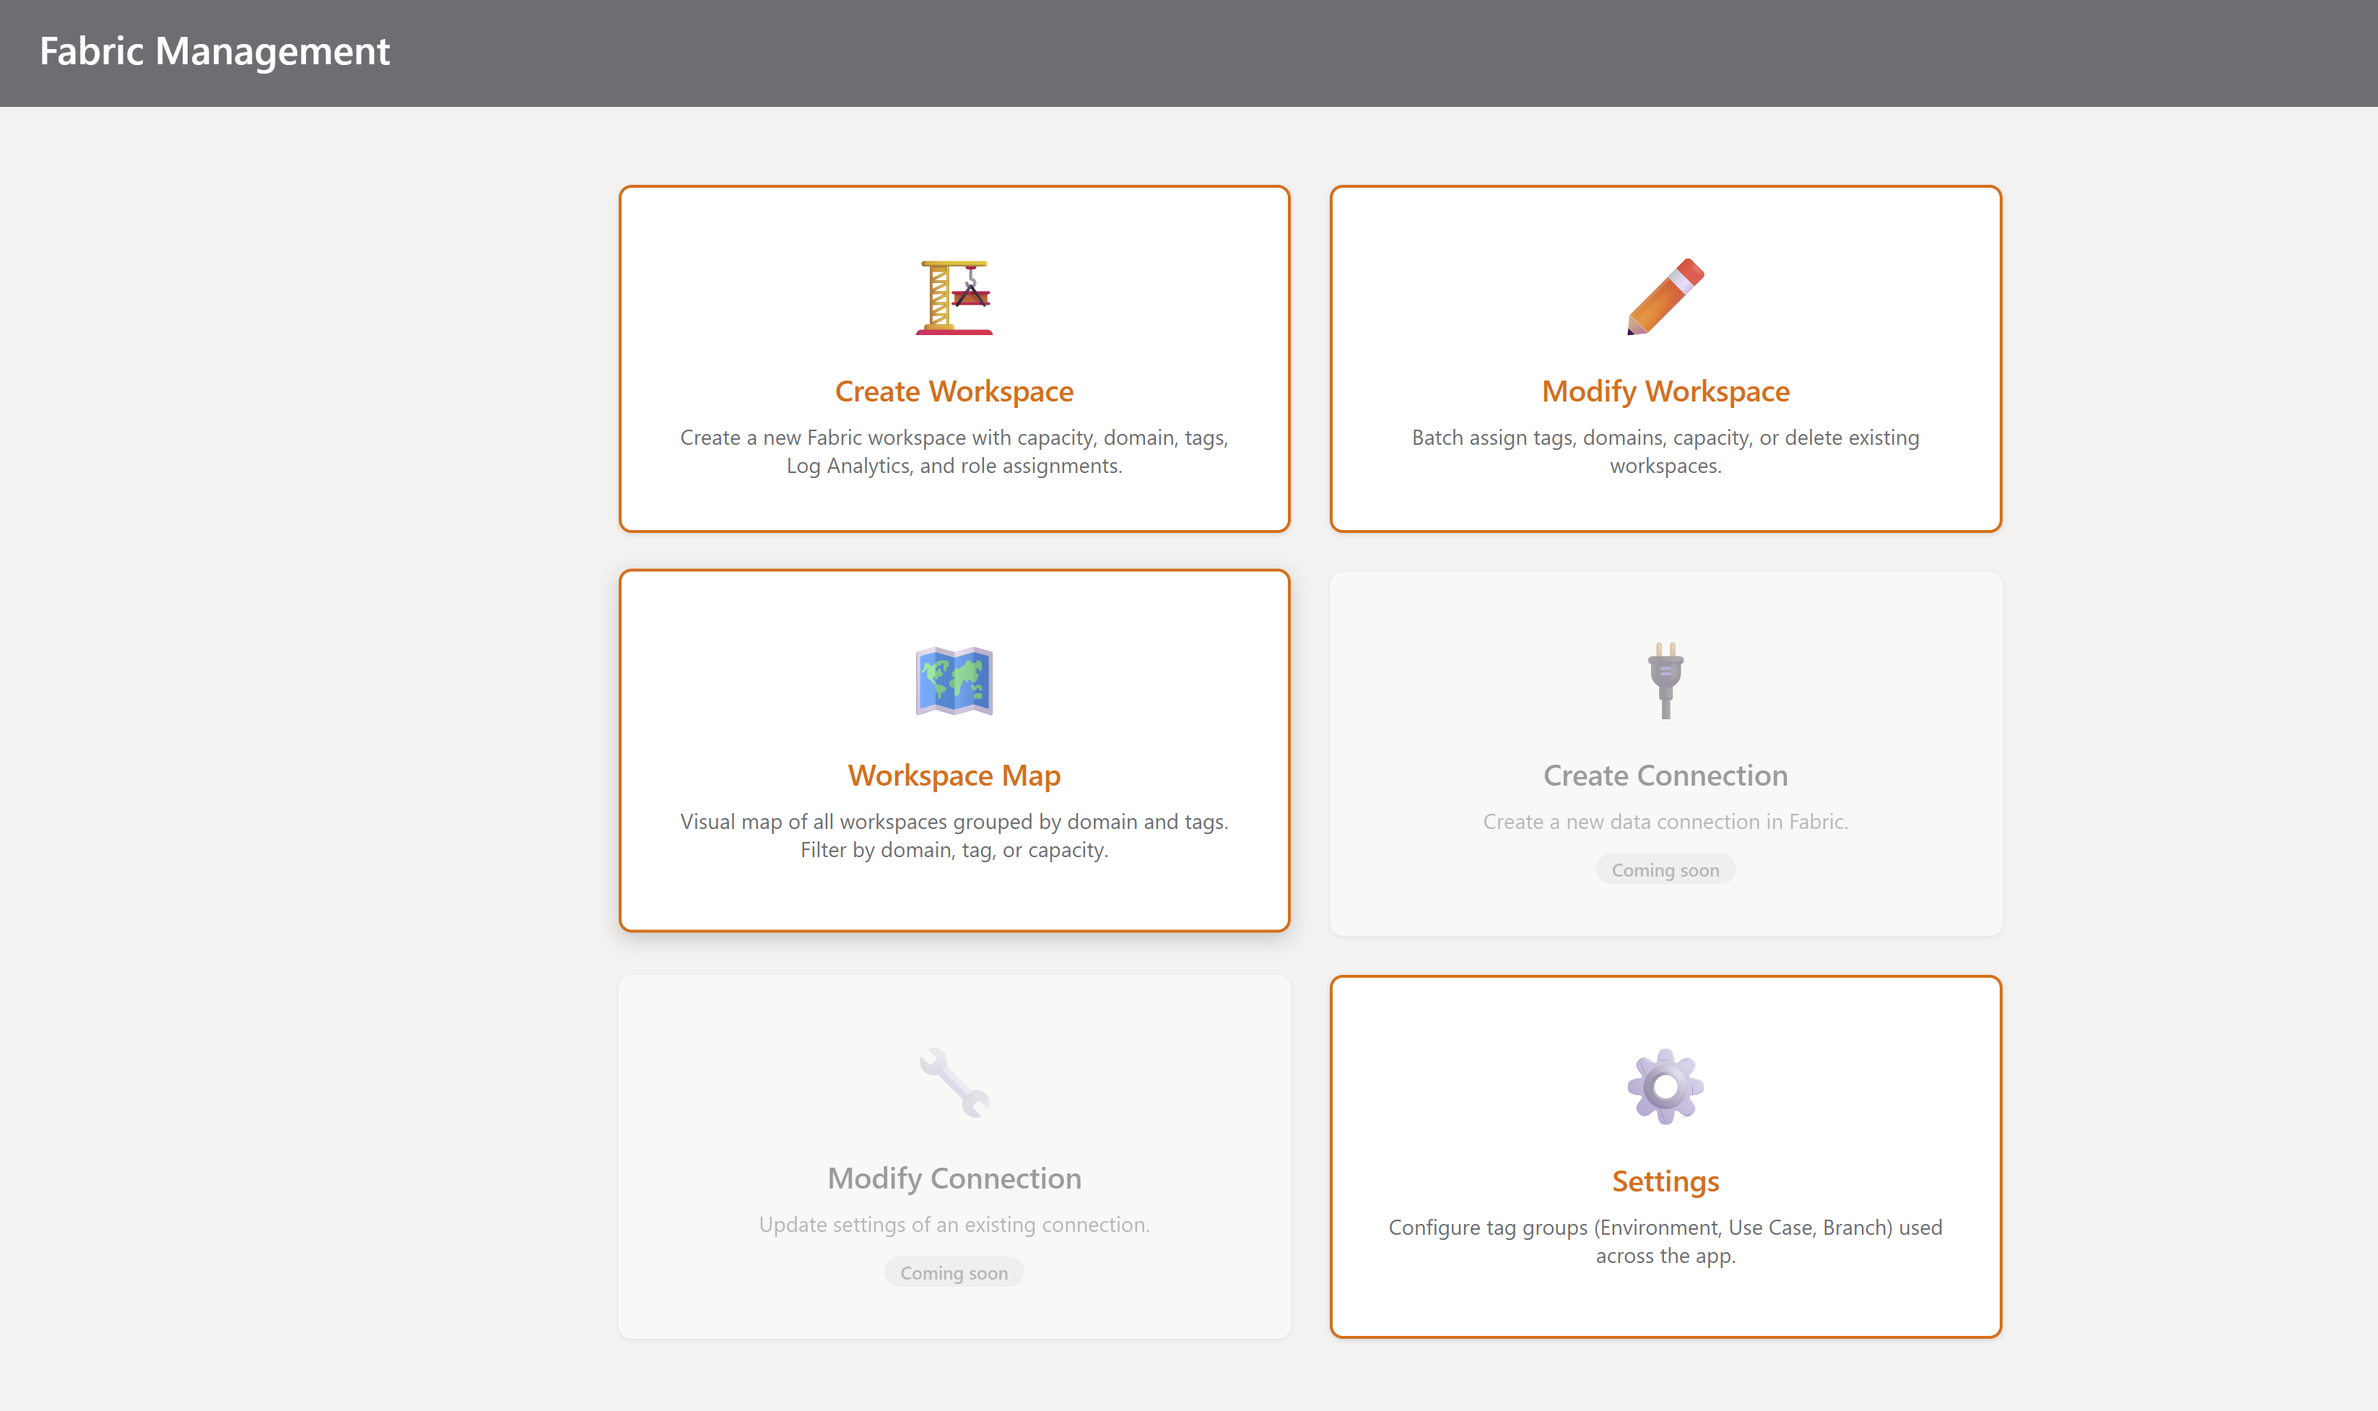
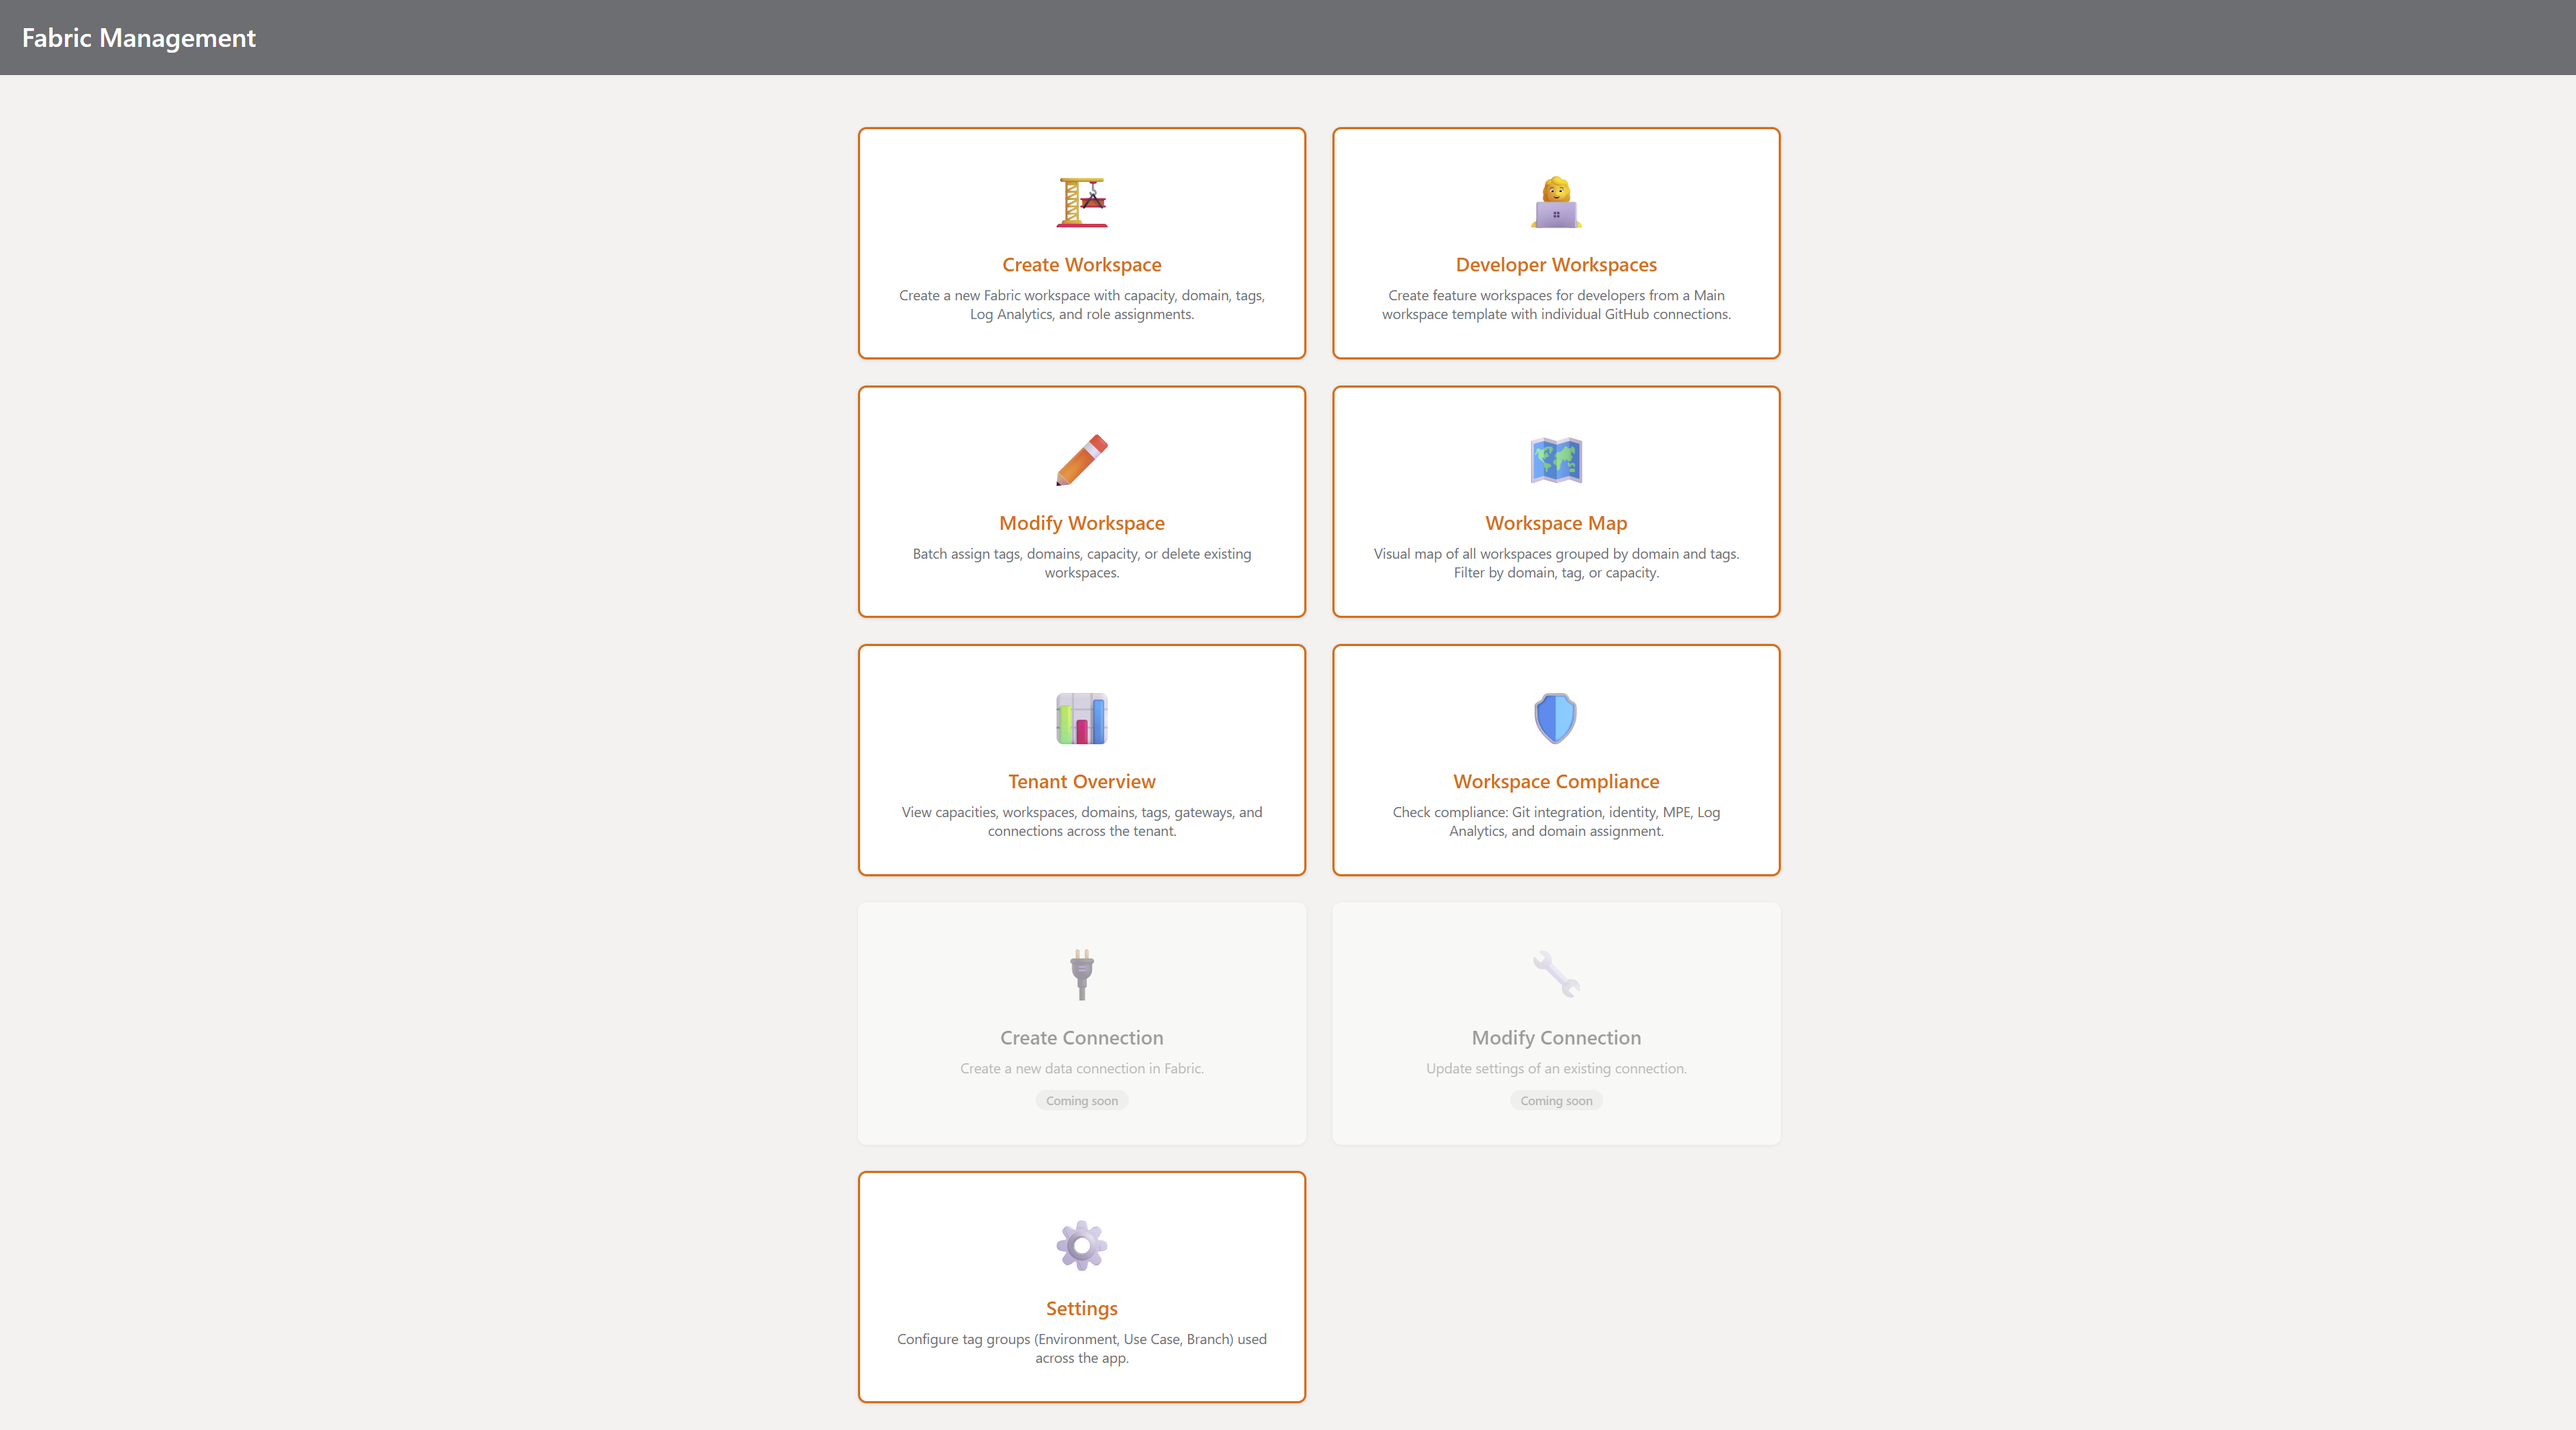
docs: update README screenshots
Document developer workspaces, workspace compliance, and settings views, and refresh the associated application screenshots.

diff --git a/README.md b/README.md
@@ -27,6 +27,11 @@ Select multiple workspaces and apply changes in bulk: **apply or remove tags**, 
 
 ![Modify Workspaces](docs/images/03-modify-workspaces.png)
 
+### Developer Workspaces — Isolated Environments for Every Developer
+Create developer workspaces from a Main workspace template. Each developer receives an isolated Fabric workspace, a dedicated feature branch, and an individual GitHub connection while preserving the template's configuration, identity, and managed private endpoints.
+
+![Developer Workspaces](docs/images/09-developer-workspaces.png)
+
 ### Workspace Map — See Your Entire Landscape
 Get a **visual overview** of every workspace in your tenant, organized by domain and classified by type (PII, Reference Assets, Use Case). Filter by environment, use case, branch, and capacity to instantly understand your workspace topology.
 
@@ -37,10 +42,14 @@ Get a **visual overview** of every workspace in your tenant, organized by domain
 ### Workspace Compliance — Governance at a Glance
 Check every workspace against compliance requirements: **Git integration**, **Workspace Identity**, **Managed Private Endpoints** (with approval status), **Log Analytics**, and **Domain assignment**. Filter by any compliance dimension, export to CSV, and track KPIs for compliant vs non-compliant workspaces.
 
+![Workspace Compliance](docs/images/10-workspace-compliance.png)
+
 ### Settings — Configure Once, Use Everywhere
 Define tag groups (Environment, Branch), managed private endpoint resource IDs, and compliance rules in one place. The entire app adapts — Create Workspace forms, Workspace Map filters, and compliance checks all stay consistent.
 
 ![Settings](docs/images/06-settings.png)
+
+![Managed Private Endpoints and Compliance Settings](docs/images/00-settings.png)
 
 ### Tenant Overview — Everything at a Glance
 Capacities, workspaces, domains, subdomains, tags, gateways (with contact info and users), connections — all visible in a single dashboard with filters, search, and CSV export.
